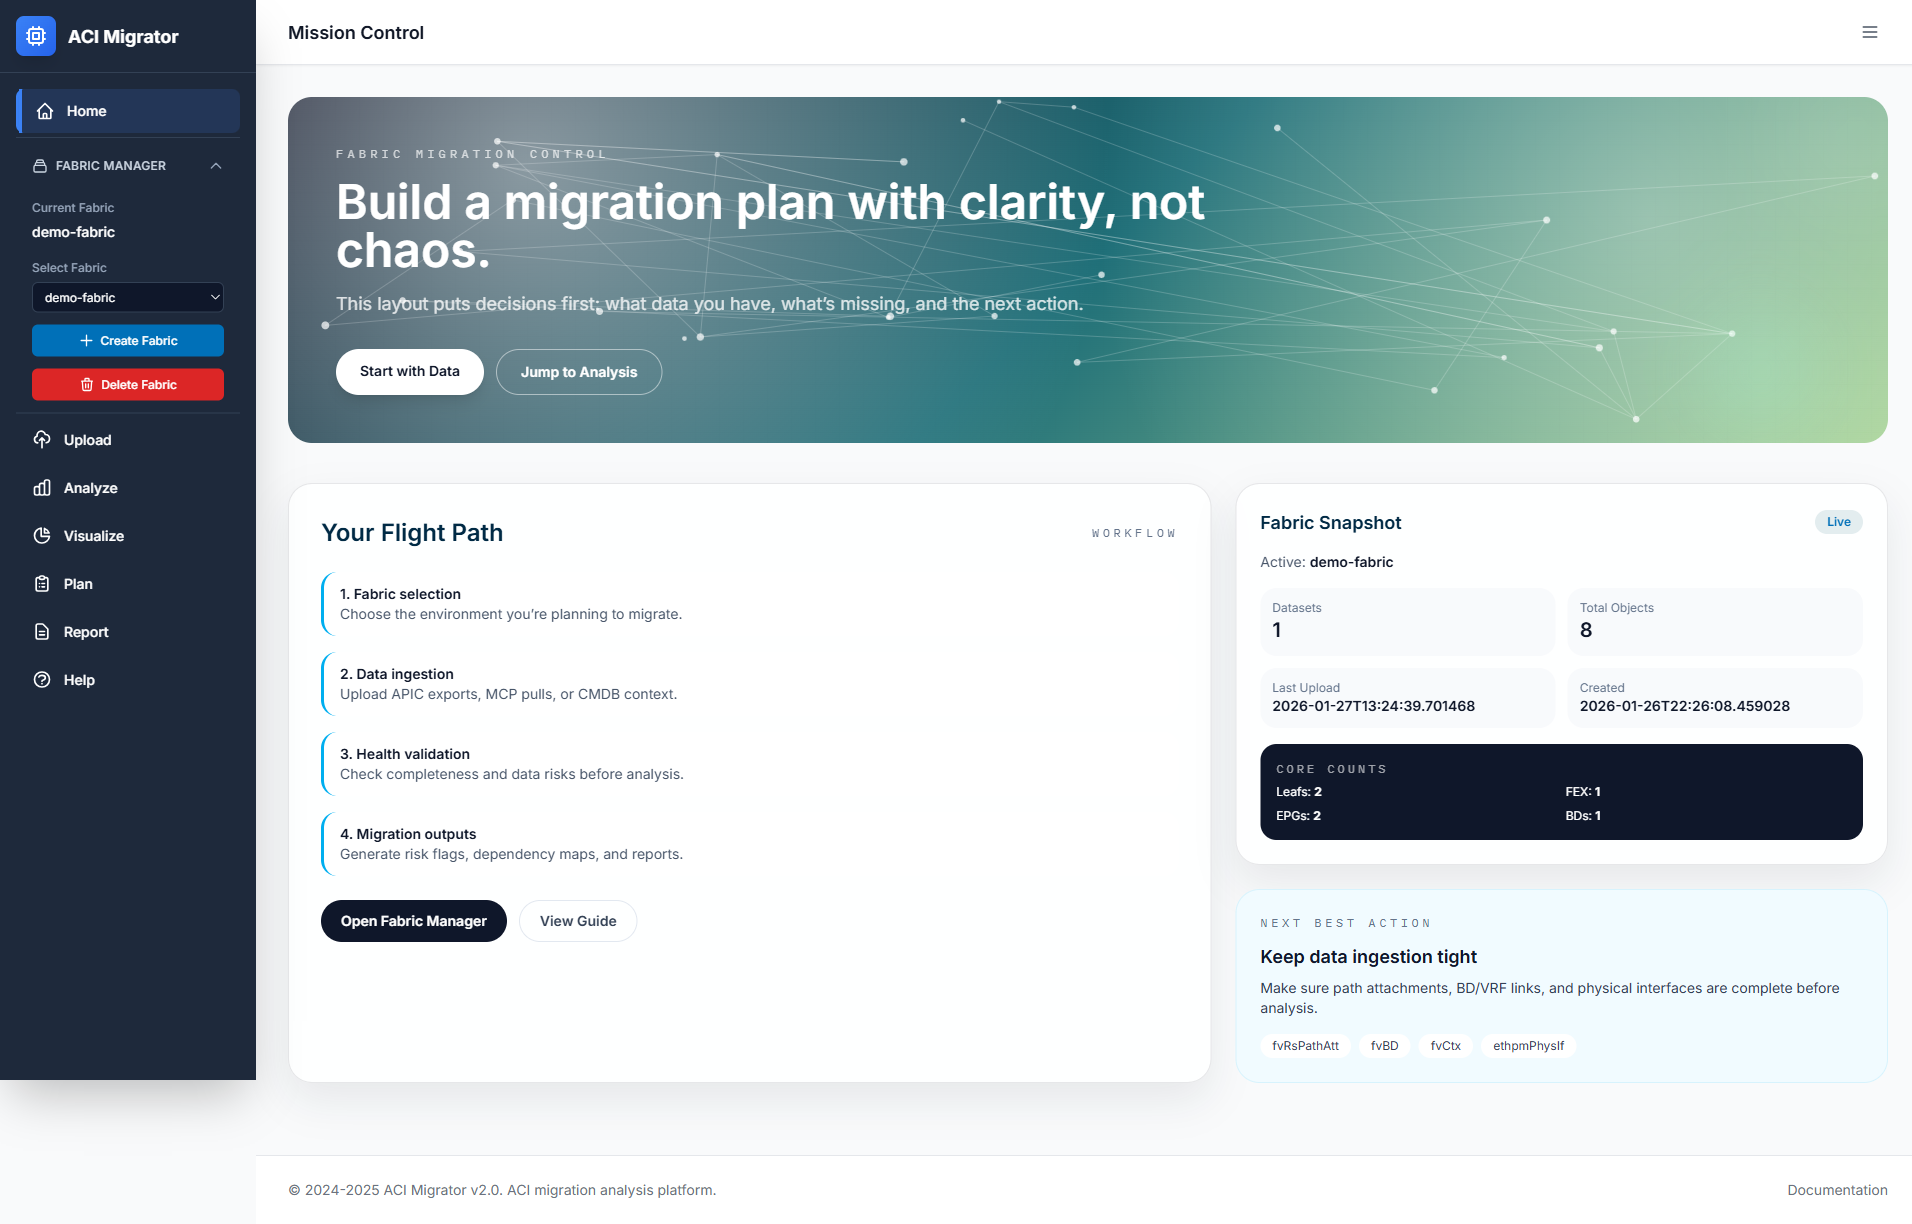
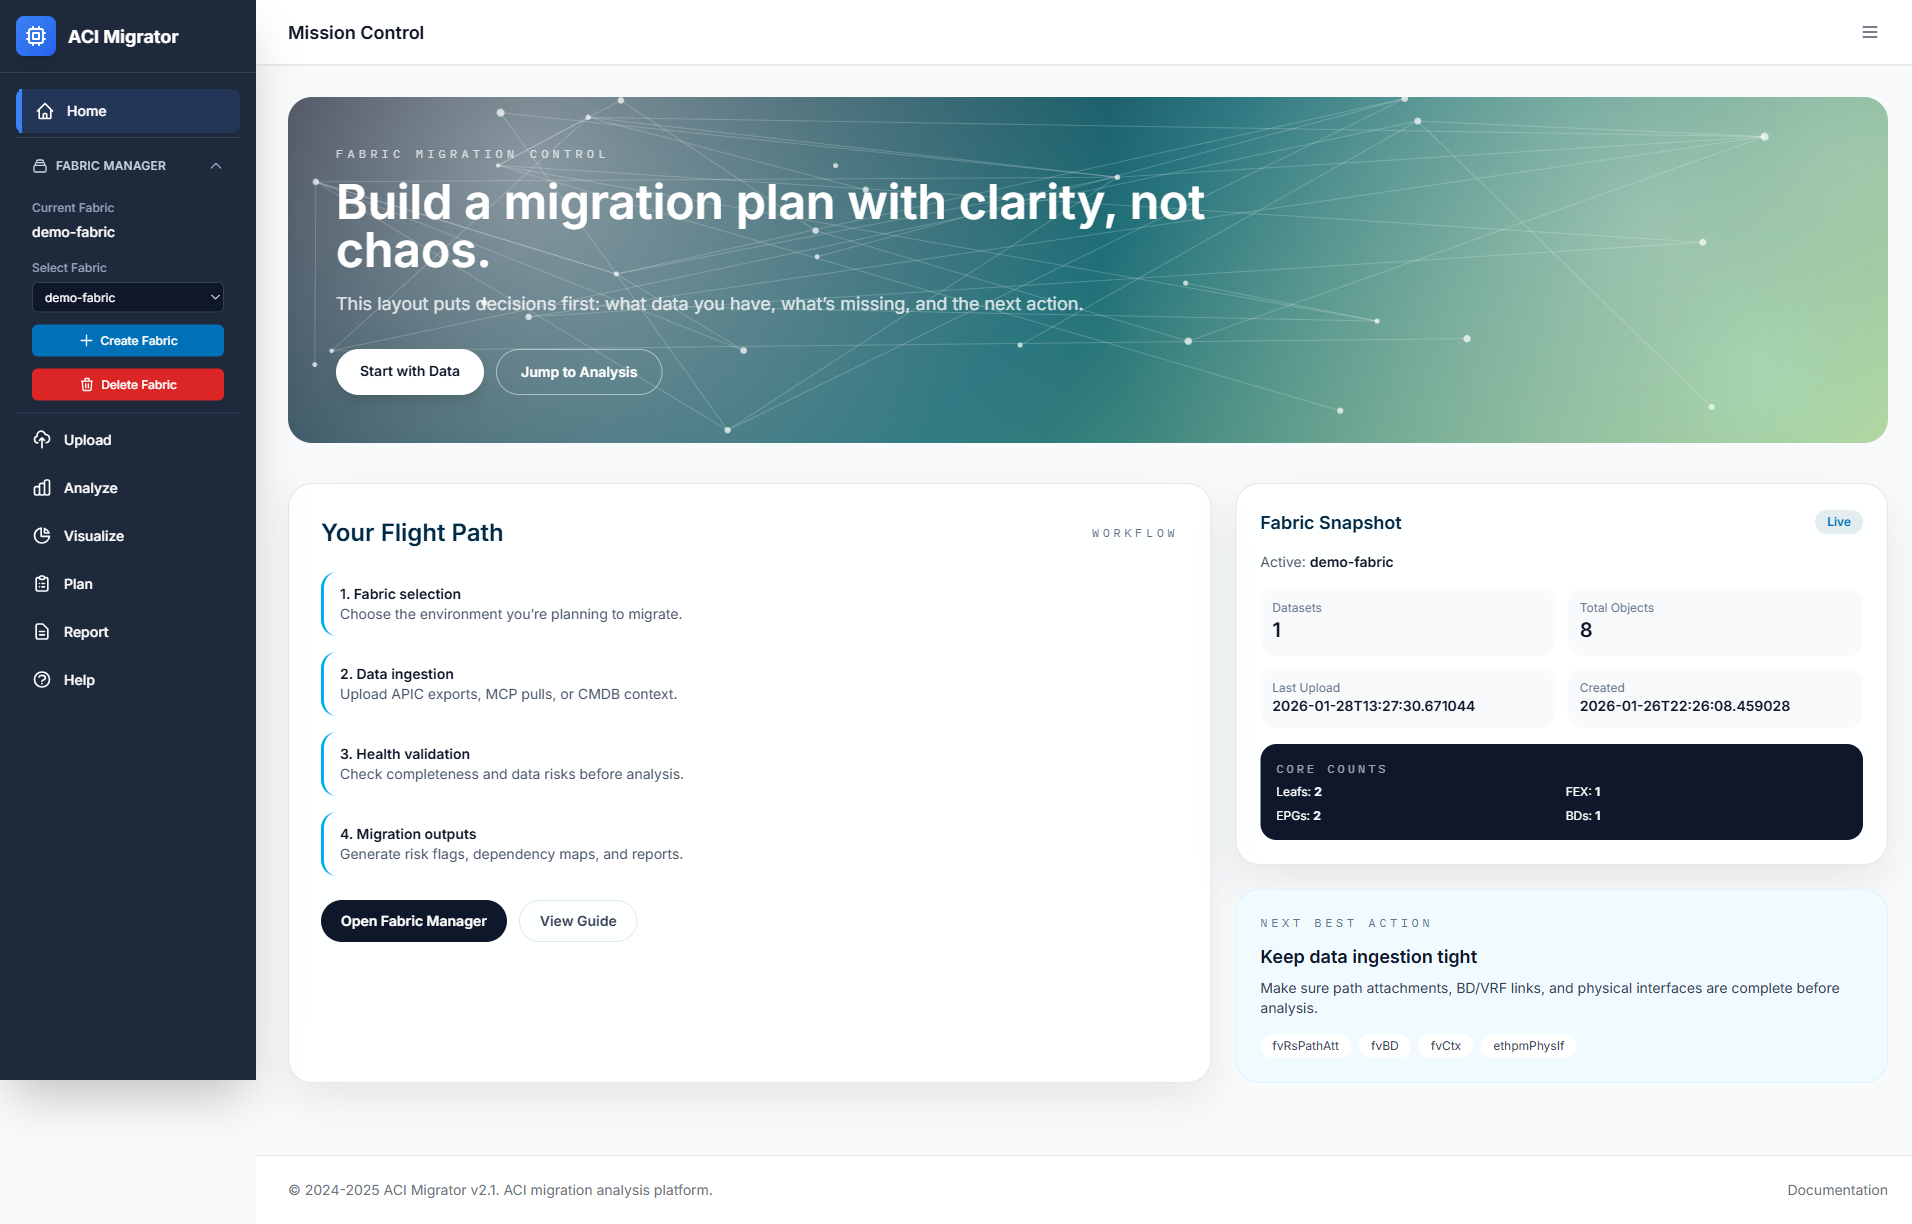
Update docs and screenshots for v2.1

diff --git a/templates/help.html b/templates/help.html
@@ -17,7 +17,7 @@
         Help & Documentation
     </h1>
     <p class="mt-2 text-lg text-gray-600">
-        Everything you need to know about using ACI Migrator v2.0
+        Everything you need to know about using ACI Migrator v2.1
     </p>
 </div>
 

diff --git a/capture_screenshots.py b/capture_screenshots.py
@@ -1,5 +1,5 @@
 """
-Screenshot capture script for ACI Migrator v2.0 documentation
+Screenshot capture script for ACI Migrator v2.1 documentation
 Captures all required UI screenshots for README.md
 """
 
@@ -70,7 +70,7 @@ def prepare_demo_data(page, base_url):
 
 def capture_screenshots():
     """Capture all required screenshots"""
-    print("Starting screenshot capture for ACI Migrator v2.0...")
+    print("Starting screenshot capture for ACI Migrator v2.1...")
 
     base_url = resolve_base_url()
     print(f"Using base URL: {base_url}")
@@ -235,7 +235,7 @@ def capture_screenshots():
 
 if __name__ == "__main__":
     print("=" * 70)
-    print("ACI Migrator v2.0 Screenshot Capture Tool")
+    print("ACI Migrator v2.1 Screenshot Capture Tool")
     print("=" * 70)
     print("\nIMPORTANT: Make sure the Flask application is running.")
     print("Expected URL: http://127.0.0.1:<port>")

diff --git a/README.md b/README.md
@@ -4,23 +4,22 @@
 
 A comprehensive, web-based application for analyzing Cisco ACI fabrics and generating migration plans. Streamline your network infrastructure modernization with automated analysis, intelligent recommendations, and detailed reporting.
 
-[![Version](https://img.shields.io/badge/version-2.0-blue.svg)](#)
+[![Version](https://img.shields.io/badge/version-2.1-blue.svg)](#)
 [![Python](https://img.shields.io/badge/python-3.8%2B-green.svg)](https://www.python.org/)
 [![Flask](https://img.shields.io/badge/flask-3.0%2B-black.svg)](https://flask.palletsprojects.com/)
 [![License](https://img.shields.io/badge/license-Internal-red.svg)](#)
 
 ---
 
-## What's New in v2.0
+## What's New in v2.1
 
-**Latest Release** focuses on a single ACI migration analysis workflow:
+**Latest Release** focuses on table-first migration readiness and coupling-driven analysis:
 
-- PDF and Excel exports for executive and technical audiences
-- MCP import workflow for remote ACI data collection
-- Unified analysis and reporting flow (single mode)
-- Refined migration planning with timelines and resource estimates
-- Documentation and screenshots aligned to v2.0
-- Barclays-aligned visual theme for UI consistency
+- VLAN Coupling Explorer as the primary migration risk signal
+- Migration Units with Easy/Medium/Hard/Blocked buckets
+- Reusable Data Explorer across Visualize dashboards
+- Utilization shown as Unknown when data is missing
+- CMDB correlation keyed by SerialNumber fields
 
 See [NEW_FEATURES.md](NEW_FEATURES.md) for complete details.
 
@@ -233,7 +232,7 @@ python offline_collector.py --apic-host apic.example.com --apic-username admin -
 aciv2/
 ├── app.py                 # Main Flask application
 ├── config.py              # Configuration management
-├── VERSION                # Version file (2.0)
+├── VERSION                # Version file (2.1)
 ├── requirements.txt       # Python dependencies
 ├── .env.example          # Environment template
 │
@@ -600,7 +599,7 @@ mypy app.py
 
 ## Changelog
 
-### Version 2.0.0 (2026-01-26)
+### Version 2.1.0 (2026-01-28)
 - Consolidated into a single ACI migration analysis workflow
 - Removed mode-specific UI and EVPN configuration generation
 - Updated reporting/export labels and templates
@@ -639,4 +638,4 @@ Built with:
 
 ---
 
-**ACI Migrator v2.0** - Professional ACI Migration Analyzer
+**ACI Migrator v2.1** - Professional ACI Migration Analyzer

diff --git a/NEW_FEATURES.md b/NEW_FEATURES.md
@@ -1,37 +1,37 @@
-# New Features - ACI Migrator v2.0
+# New Features - ACI Migrator v2.1
 
-**Release Date**: 2026-01-26
-**Version**: 2.0
-**Previous Version**: 1.02
+**Release Date**: 2026-01-28
+**Version**: 2.1
+**Previous Version**: 2.0
 
 ---
 
 ## Overview
 
-ACI Migrator v2.0 consolidates the application into a single ACI migration analysis workflow. The release emphasizes reporting, MCP import, and consistent documentation for the updated experience.
+ACI Migrator v2.1 shifts Visualize to a table-first experience, introduces VLAN coupling as the primary migration difficulty signal, and replaces readiness charts with actionable Migration Units.
 
 ---
 
 ## Highlights
 
-- PDF and Excel exports for executive and technical audiences
-- MCP server import for remote ACI data collection
-- Unified analysis and reporting flow (single mode)
-- Refined migration planning with timelines and resource estimates
-- Documentation and screenshots refreshed for v2.0
+- VLAN Coupling Explorer (coupling + blast radius)
+- Migration Units with Easy/Medium/Hard/Blocked buckets
+- Data Explorer component across Visualize tabs
+- Utilization shown as Unknown/N/A when signal is missing
+- CMDB join on SerialNumber with expanded location fields
 
 ---
 
 ## Notable Changes
 
-- Removed EVPN mode and EVPN configuration generation
-- Simplified UI messaging to focus on migration analysis
-- Report exports now label mode as "Migration" consistently
+- Visualize dashboards rebuilt around tables (charts are secondary)
+- Port utilization uses data-quality checks to avoid false 0% values
+- VLAN coupling score now drives migration difficulty and readiness
 
 ---
 
 ## Upgrade Notes
 
-1. Remove any references to EVPN-specific workflows in internal runbooks.
-2. Regenerate documentation screenshots using the v2.0 UI.
-3. Validate report outputs to confirm updated labels.
+1. Regenerate documentation screenshots using the v2.1 UI.
+2. Ensure CMDB CSV uses SerialNumber and ModelName columns.
+3. Re-validate migration planning outputs against coupling-driven readiness.

diff --git a/DOCUMENTATION.md b/DOCUMENTATION.md
@@ -207,7 +207,7 @@ python app.py
 Expected output:
 ```
 ======================================================================
-ACI Migrator v2.0 - Professional ACI Migration Tool
+ACI Migrator v2.1 - Professional ACI Migration Tool
 ======================================================================
 Data directory: C:\Users\...\aciv2\data
 Fabrics directory: C:\Users\...\aciv2\fabrics
@@ -239,8 +239,8 @@ CMD ["python", "app.py"]
 
 ```bash
 # Build and run
-docker build -t ACI Migrator:2.0 .
-docker run -p 5000:5000 -v $(pwd)/fabrics:/app/fabrics ACI Migrator:2.0
+docker build -t ACI Migrator:2.1 .
+docker run -p 5000:5000 -v $(pwd)/fabrics:/app/fabrics ACI Migrator:2.1
 ```
 
 ---
@@ -392,7 +392,7 @@ curl http://localhost:5000/api/migration-assessment/fabric_name
 
 ### Authentication
 
-Currently, ACI Migrator v2.0 does not require authentication. For production deployment, implement authentication middleware or use reverse proxy with authentication.
+Currently, ACI Migrator v2.1 does not require authentication. For production deployment, implement authentication middleware or use reverse proxy with authentication.
 
 ### Endpoints
 
@@ -888,6 +888,6 @@ See [CHANGELOG.md](CHANGELOG.md) for detailed version history.
 
 ---
 
-**ACI Migrator v2.0** - Professional ACI Migration Analyzer
+**ACI Migrator v2.1** - Professional ACI Migration Analyzer
 
 Copyright 2025 - All Rights Reserved

diff --git a/CHANGELOG.md b/CHANGELOG.md
@@ -7,6 +7,18 @@ and this project adheres to [Semantic Versioning](https://semver.org/spec/v2.0.0
 
 ---
 
+## [2.1] - 2026-01-28
+
+### Added
+- VLAN Coupling Explorer as primary migration difficulty signal
+- Migration Units with Easy/Medium/Hard/Blocked buckets
+- Reusable Data Explorer across Visualize tabs
+
+### Changed
+- Visualize dashboards are table-first; charts are secondary
+- Port utilization now reports Unknown/N/A when data is missing
+- CMDB join keyed by SerialNumber with expanded location fields
+
 ## [2.0] - 2026-01-26
 
 ### Changed
